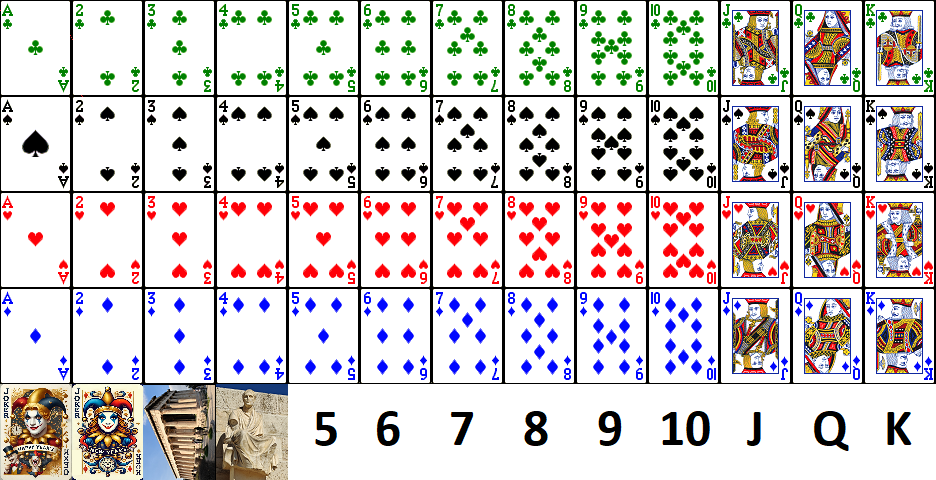
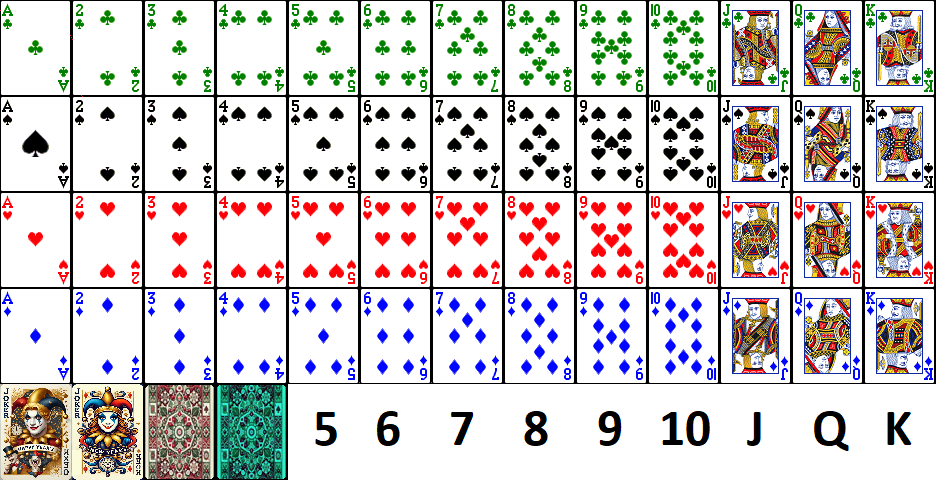
Add option for yellow vinyl

Changed region(s): [[0.1549, 0.7812, 0.3098, 1.0]]

diff --git a/liverpoolrummy/liverpoolrummy.js b/liverpoolrummy/liverpoolrummy.js
@@ -109,12 +109,11 @@ console.log("[bmc] Clear this.prepAreas2");
 ////////
 // Bugs / TODO:
 //
-// 2025-01-19: I am at table 618031393
-//
-// 2025-01-19: Down card doesn't slide after go DOWN nor joker swap?
-//
-// 2025-01-19: Make the wishlist buy after the person draws
+// 2025-03-01: There are ZERO PHP syntax errors and ZERO UNEXPECTED ERRORS on the game servers!! Yay!
 // 
+// 2025-01-19: I am at table 618031393
+// 2025-01-19: Down card doesn't slide after go DOWN nor joker swap?
+// 2025-01-19: Make the wishlist buy after the person draws (not before)
 // Card backs: maybe grapes or beach or palm trees... Not winter because it's summer in Australia 
 //
 // 19/01 12:29:57 [error] [T617611414] [1.159.82.180] [91612041/Lindajak] Error with notification service
@@ -122,24 +121,6 @@ console.log("[bmc] Clear this.prepAreas2");
 //  https://curl.haxx.se/libcurl/c/libcurl-errors.html) for http://ws.boardgamearena.com/bgamsg") first
 //  error (message length = 825). Automatic retry - /player/p89557171 - 65703dba0f1665eca0e87129089903af
 //  - drawCard","log":"","....  
-// 2025-01-19: Add delay between draw and discard. Reason: Derusian and others are able to quickly
-//     draw and discard, not giving others a chance to buy.
-//
-// 29/12 15:40:39 [error] [T607825961] [126.60.172.101] [97104249/osorairo] Unexpected exception:
-//     Can't manage zombie player in this game state (40)
-// #0 /var/tournoi/release/tournoi-241223-1616-gs/www/include/APP_GameAction.inc.php(256): Table->checkReturnState()
-// #1 /var/tournoi/release/tournoi-241223-1616-gs/www/include/APP_GameAction.inc.php(249):
-//     APP_GameAction->ajaxResponseWithResult(NULL)
-// #2 /var/tournoi/release/tournoi-241223-1616-gs/www/include/APP_GameAction.inc.php(195): APP_GameAction->ajaxResponse()
-// #3 /var/tournoi/release/tournoi-241223-1616-gs/www/include/APP_GameAction.inc.php(602): APP_GameAction->wakeup()
-// #4 /var/tournoi/release/tournoi-241223-1616-gs/www/include/webActionCore.inc.php(198):
-//     APP_GameAction->performServerAction('...')
-// #5 /var/tournoi/release/tournoi-241223-1616-gs/www/index.php(356):
-//     launchWebAction('...', '...', '...', false, false, NULL, true, false)
-// #6 {main}
-// http://boardgamearena.com/8/liverpoolrummy/liverpoolrummy/wakeup.html?myturnack=true&table=607825961		
-//
-// TODO 12/29/2024: Joker replacements go to the wrong player.
 // 
 // 12/8/2024: It doesn't update the score until after everyone clicks on to the next
 //
@@ -180,6 +161,8 @@ console.log("[bmc] Clear this.prepAreas2");
 //   score when someone goes out early - I highly value the relative discounting between players within a round.
 
 
+// X 2025-01-19: Add delay between draw and discard. Reason: Derusian able to give others a chance to buy.
+// X 12/29/2024: Joker replacements go to the wrong player.
 // X TODO: Check all actions for public, variable type, statemachine
 // X test/public/int       /states actDiscardCard
 // X public/int       /states 'actPlayerHasReviewedHand'
@@ -1486,6 +1469,17 @@ console.log("[bmc] Doing the window.onload");
 			$(BUTSAVEPREPTRANSLATED).innerHTML = _('Save Prep');
 			$(BUTLOADPREPTRANSLATED).innerHTML = _('Load Prep');
 			$(VOICESTRANSLATED).innerHTML = _('Voices');
+
+console.log( this.gamedatas.tabletop );
+
+			// Draw the tabletop, based on selected option
+			if (  this.gamedatas.tabletop == 0 ){ // 1 = Yellow ; 0 = Sky
+				dojo.removeClass( 'goDownArea_wrap', 'goDownWrapYellowTable' );
+				dojo.addClass(    'goDownArea_wrap', 'goDownWrapSkyOverField' );
+			} else {
+				dojo.removeClass( 'goDownArea_wrap', 'goDownWrapSkyOverField' );
+				dojo.addClass(    'goDownArea_wrap', 'goDownWrapYellowTable' );
+			}
 
             console.log( "[bmc] EXIT game setup" );
         },
@@ -4949,22 +4943,22 @@ console.log( '[bmc] addTo: ' + addTo );
 			if ( drawSource == 'deck' ) {
 				console.log(this.gamedatas.cardIDsInDeck[ 0 ]);
 
-				const myDiv = document.getElementById('deckAll');
-				const topElement = this.findHighestZIndex(myDiv);
+				// const myDiv = document.getElementById('deckAll');
+				// const topElement = this.findHighestZIndex(myDiv);
 
-				if (topElement) {
-					console.log('Element with highest z-index:', topElement);
-					console.log('z-index value:', window.getComputedStyle(topElement).zIndex);
-				} else {
-					console.log('No elements with z-index found in the container.');
-				}
+				// if (topElement) {
+					// console.log('Element with highest z-index:', topElement);
+					// console.log('z-index value:', window.getComputedStyle(topElement).zIndex);
+				// } else {
+					// console.log('No elements with z-index found in the container.');
+				// }
 
-				console.log( topElement.id );
-				topCardId = topElement.id.split('_');
-				console.log( topCardId[ 2 ] );
+				// console.log( topElement.id );
+				// topCardId = topElement.id.split('_');
+				// console.log( topCardId[ 2 ] );
 				
-				this.deckAll.removeFromStockById( topCardId[ 2 ], addTo );
-//				this.deckAll.removeFromStockById( card_id, addTo );
+				// this.deckAll.removeFromStockById( topCardId[ 2 ], addTo );
+				this.deckAll.removeFromStockById( card_id, addTo );
 			}
 			
 			if ( drawSource == 'discardPile' ) {
@@ -5073,8 +5067,24 @@ console.log( '[bmc] addTo: ' + addTo );
 				
 				if ( drawSource == 'deck' ) {
 console.log( '[bmc] Deck' );
+
+
+					// const myDiv = document.getElementById('deckAll');
+					// const topElement = this.findHighestZIndex(myDiv);
+
+					// if (topElement) {
+						// console.log('Element with highest z-index:', topElement);
+						// console.log('z-index value:', window.getComputedStyle(topElement).zIndex);
+					// } else {
+						// console.log('No elements with z-index found in the container.');
+					// }
+
+					// console.log( topElement.id );
+					// topCardId = topElement.id.split('_');
+					// console.log( topCardId[ 2 ] );
+					// this.deckAll.removeFromStockById( topCardId[ 2 ], addTo );
+
 					this.deckAll.removeFromStockById( card_id, addTo );
-					// this.deck.removeFromStockById(card_id, addTo );
 				}
 				
 				if ( drawSource == 'discardPile' ) {

diff --git a/liverpoolrummy/liverpoolrummy.css b/liverpoolrummy/liverpoolrummy.css
@@ -283,7 +283,18 @@ individually display or hide the element.
 .checkboxWL { position: absolute; bottom: 50px; right: 70px; }
 
 
-.goDownWrap {
+.goDownWrapSkyOverField {
+	float: Left;
+    background-image: url('img/SkyOverField.png');
+	background-size: cover;
+	background-repeat: no-repeat;
+	margin: 10px;
+	border: 10px;
+	padding: 10px;
+	width: 95%;
+}
+
+.goDownWrapYellowTable {
 	float: Left;
     background-image: url('img/YellowTable.png');
 	background-size: cover;

diff --git a/liverpoolrummy/liverpoolrummy.game.php b/liverpoolrummy/liverpoolrummy.game.php
@@ -94,6 +94,7 @@ class LiverpoolRummy extends Table
 			"enableWishList" => 108,
 			"allowJokerSwapping" => 109,
 			"drawStamp" => 110,
+			"tabletop" => 111,
 
 			"LPMissed" => 125,
 			"liverpoolExists" => 126,
@@ -680,6 +681,9 @@ class LiverpoolRummy extends Table
 
 //		self::trace("[bmc] EXIT GETALLDATAS");
 		self::trace("'<span style='color:green'><b>[bmc] EXIT GETALLDATAS</b></span>'");
+
+		// Determine the type of tabletop
+        $result['tabletop'] = $this->getGameStateValue( 'tabletop' );
 
         return $result;
     }
